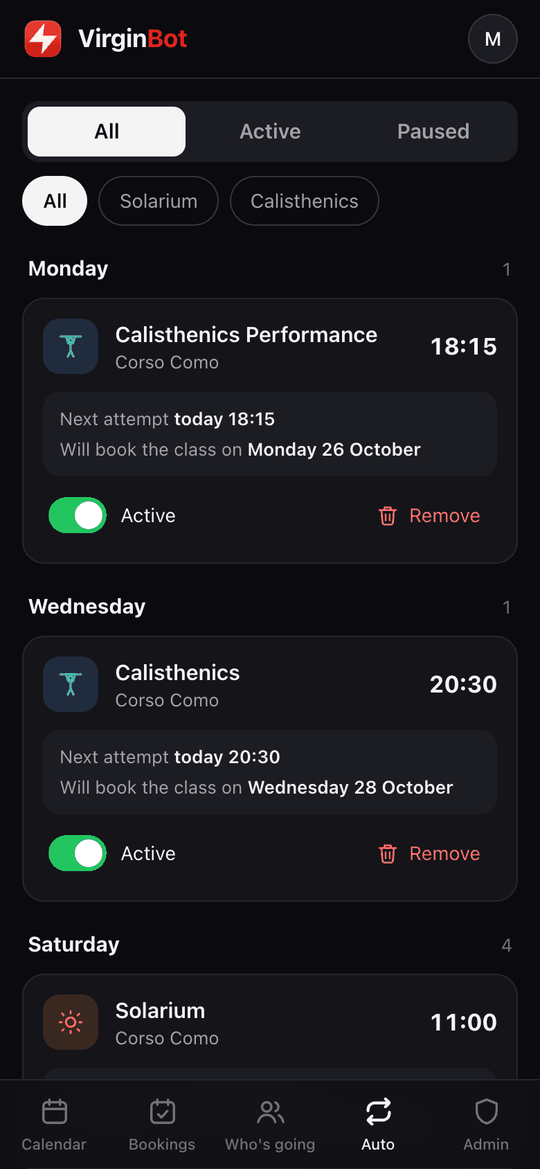
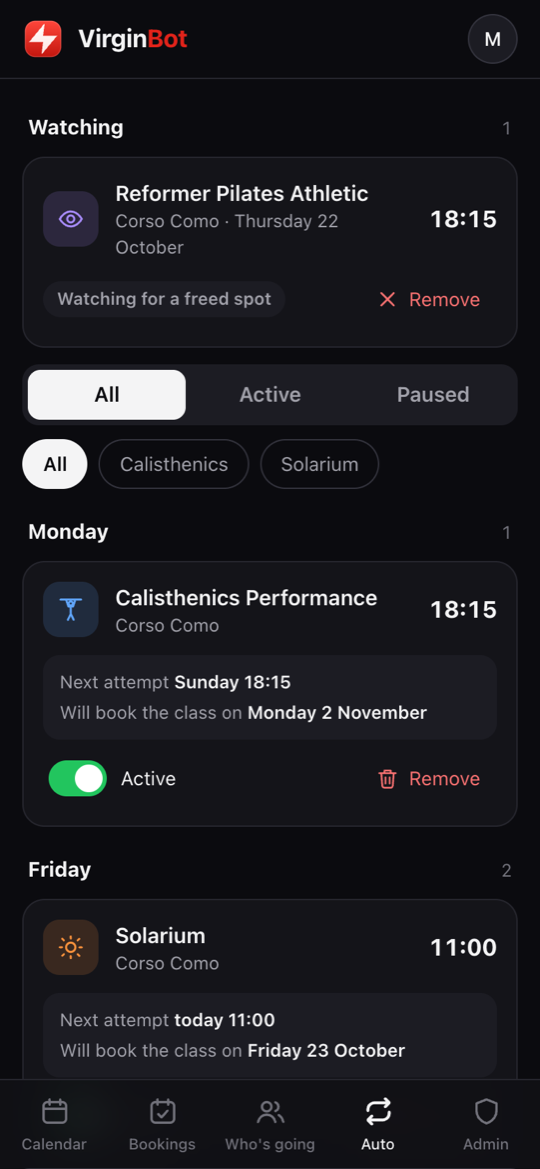
docs: describe the new features and refresh the screenshots

diff --git a/README.md b/README.md
@@ -23,33 +23,42 @@ VirginBot fixes that. You mark the weekly classes you care about, the bot wakes 
 
 ## Screenshots
 
-| Calendar | Filters | Automations |
-|:---:|:---:|:---:|
-| <img src="docs/screenshots/calendar.png" width="260" alt="Calendar"> | <img src="docs/screenshots/filters.png" width="260" alt="Filter sheet"> | <img src="docs/screenshots/automations.png" width="260" alt="Automations"> |
-| Live classes for the next 10 days, one tap to book or automate. | Filter by class, Pilates variant and club. | Weekly rules with the next attempt and the class it will book. |
+| Calendar | Filters | Automations | Your activity |
+|:---:|:---:|:---:|:---:|
+| <img src="docs/screenshots/calendar.png" width="200" alt="Calendar"> | <img src="docs/screenshots/filters.png" width="200" alt="Filter sheet"> | <img src="docs/screenshots/automations.png" width="200" alt="Automations and watches"> | <img src="docs/screenshots/stats.png" width="200" alt="Bookings and stats"> |
+| Live classes with spots left, one tap to book, automate or watch. | Filter by class, Pilates variant, club and instructor. | Watched classes and weekly rules with their next attempt. | Bookings with their cancel deadline, and your stats. |
 
 ## Features
 
 **Calendar**
-- Live classes for the next 10 days across the configured clubs (Milano Corso Como, Milano Cavour, Palermo), with real availability: bookable, full or not yet open.
-- A date strip to jump to a day, plus a filter sheet: class (Calisthenics, Lift, Pilates, Solarium, Full Body, TRX, Cycle), Pilates variant (Reformer Align, Athletic, Tower…) and club.
-- Book and cancel in one tap. *My bookings* always matches the official app, because both read the same backend.
-- **Waitlists:** on a full class, join its waitlist in one tap ("Full · 3 waiting"). *My bookings* shows your position and lets you leave it, and you get a push notification the moment you're moved into the class.
+- Live classes for the next 10 days across the configured clubs (Milano Corso Como, Milano Cavour, Palermo), with real availability: spots left, full ("Full · 3 waiting"), or when booking opens for *you* ("Opens Mon 18:15").
+- A date strip to jump to a day, plus a filter sheet: class, Pilates variant, club (your home club by default) and instructor, with a searchable list where you star your favourite instructors.
+- Book and cancel in one tap. Every booking shows until when it can still be cancelled (Virgin allows it up to 2 h before the class).
+- **Waitlists:** join a full class's waitlist in one tap, see your position, and get a push notification the moment you're moved into the class.
+- **Watch** a full class: VirginBot checks it every few minutes and books it as soon as a spot frees up, until 3 h before the class so you can still cancel it.
 
 **Automations**
-- Tap **Auto** on a class and VirginBot books that class **every week**.
-- It tries at the class time on each day from the moment the window opens (8 days before; 2 for the Solarium) until 24 h before. Each attempt is a short burst of up to 9 tries over about a minute, because Virgin sometimes opens the slot a few seconds late.
-- Cancelling one booking keeps the automation and only skips that date. You get a notice saying so, and booking that date again by hand clears the skip.
-- Pause or remove any rule. Each rule shows when the next attempt is and which class it will book.
+- Tap **Auto** on a class and choose **every week** or **just this once**.
+- It tries at the class time on each day from the moment your booking window opens (8 days before for priority members, 2 for everyone else and for the Solarium) until 24 h before. Each attempt is a short burst of up to 9 tries over about a minute, because Virgin sometimes opens the slot a few seconds late.
+- An automation that would overlap another one of yours is refused, saying which one it clashes with, and the bot never books a class that overlaps one you already have.
+- If a class is still full 24 h before, it can just tell you, put you on its waitlist, or keep watching it for you (your choice).
+- Cancelling one booking keeps the automation and only skips that date. Pause or remove any rule; each one shows its next attempt and the class it will book.
+
+**Bookings and stats**
+- **"Did you go?"** after each class, with one tap. Virgin doesn't expose attendance, so this is what makes the stats real.
+- **Your activity:** classes this month, total, how many VirginBot booked, week streak, classes per month, split by type, and your usual class.
+- A warning when you've skipped classes without cancelling: three in 30 days can get your bookings blocked for 15 days.
+- Suggestions to automate the weekly classes you keep going to.
 
 **Everything else**
-- **Who's going:** see which other users have booked the same class, so you can go together.
-- **Push notifications:** install the app on your phone's home screen, turn notifications on in the account sheet, and you get an instant "Booked ✓" or "Couldn't book" on the lock screen. Tapping it opens the right tab. Works on iPhone (iOS 16.4+, from the home-screen app) and Android.
-- **Installable app:** add it to the home screen for a full-screen app with its own icon that opens instantly.
+- **Push notifications:** booked, couldn't book, a spot freed up, you're in from the waitlist, a reminder before each class (4 h by default) with the time you can cancel until, a friend booking one of your usual classes, and your Virgin password stopping working. Works on iPhone (iOS 16.4+, from the home-screen app) and Android.
+- **Who's going:** see who else booked a class, and book, automate or watch it from there.
+- **Phone calendar:** a private `.ics` subscription link with your bookings.
+- **Installable app:** add it to the home screen for a full-screen app with its own icon. You stay signed in, and the browser offers to save your password.
 - **Multi-user:** an email allowlist, Virgin passwords encrypted at rest, and per-user sessions.
-- **Admin view:** see, pause and remove every user's automations, and see everyone's upcoming bookings.
-- **Three languages:** the web app and notifications are in Italian, Spanish and English, detected from the browser and changeable at any time.
-- **Mobile first:** bottom navigation, bottom sheets, large touch targets and safe-area aware layouts; on desktop it becomes a centred layout with a floating nav bar.
+- **Admin view:** every user's automations and bookings, the engine's health and its latest booking attempts with their outcome.
+- **Three languages:** the web app and notifications are in Italian, Spanish and English.
+- **Mobile first:** bottom navigation, bottom sheets you can swipe down, large touch targets and safe-area aware layouts.
 
 ## How the engine works
 
@@ -62,7 +71,8 @@ class on Mon 18:15, window opens 8 days before
  (T-8: opens)   try            try                 try          try (last) │  class
 ```
 
-- At each trigger it fetches **only that class's club**, finds the session and books it. For the Solarium it tries every bed until one accepts.
+- At each trigger it fetches **only that class's club**, finds the session and books it. Triggers due at the same time run in parallel, so one user's attempt never delays another's.
+- Its state (booked, attempts, notices sent) is stored, so a restart or a deploy doesn't repeat anything.
 - If the booking API errors but the booking actually went through, a final check confirms it before reporting a failure, so you never get a false failure notice or a double booking.
 - After a success it stops for that week; the rule stays active for the next one. If the spot goes in the split second between checking and booking, Virgin puts you on the waitlist instead: the engine stops there and tells you your position.
 
@@ -112,6 +122,8 @@ All settings come from environment variables. The `.env` file is loaded at start
 | `ADDR` | | Listen address. Default `:8080`. |
 | `VIRGINBOT_DB` | | SQLite file. Default `virginbot.db`. |
 | `VIRGINBOT_ATTEMPTS`, `VIRGINBOT_GAP_SEC`, `VIRGINBOT_LEAD_SEC` | | Tune each trigger's burst: attempts (9), seconds between them (8), delay before the first (0). |
+| `VIRGINBOT_CANCEL_CUTOFF_MIN` | | How long before a class Virgin stops accepting cancellations. Default 120. |
+| `VIRGINBOT_WATCH_CUTOFF_MIN` | | When watching a full class stops. Default: the cancel cutoff + 60. |
 | `VIRGINBOT_DEBUG` | | `1` logs every engine evaluation. |
 | `VIRGINBOT_NO_ENGINE` | | `1` disables the engine (local UI work). |
 
@@ -141,7 +153,9 @@ Clubs are identified by vapi's numeric `clubId`. `GET /clubs`, with a signed-in 
 
 - Virgin passwords are encrypted at rest with AES-256-GCM. `APP_SECRET` is mandatory; there is no insecure default.
 - Sign-in is rate-limited per IP and can be restricted with an email allowlist.
-- Session cookies are `HttpOnly`, `Secure` over HTTPS and `SameSite=Lax`, with a 30-day lifetime.
+- Session cookies are `HttpOnly`, `Secure` over HTTPS and `SameSite=Lax`, valid for 30 days since you last opened the app.
+- The login form refuses posts from other sites (login CSRF).
+- The calendar feed is authenticated only by a long random secret in its URL, which you can rotate from the app.
 - `VA_API_KEY` is the app's public static key, but it still lives in secrets, not in the repo. If Virgin rotates it, the admin gets a push notification.
 - `.env`, the database and traffic captures are git-ignored. No secrets are committed.
 
@@ -153,9 +167,9 @@ Pure Go with a single dependency tree and no CGO: SQLite via `modernc.org/sqlite
 |---|---|
 | `vapi/` | Client for Virgin's mobile API: login, classes, bookings, book, cancel. |
 | `calendar/` | The `Class` model and the club id ↔ name mapping. |
-| `automation/` | Rule store, skipped dates, and the precise-timing engine. |
+| `automation/` | Rule store, skipped dates, overlaps, and the precise-timing engine with its persisted state, attempt log and watchdog. |
 | `account/` | Users and encrypted credentials. |
-| `server/` | HTTP API, embedded web app, sessions, per-user API clients, bookings sync, admin. |
+| `server/` | HTTP API, embedded web app, sessions, per-user API clients, bookings sync, watches, reminders, history and stats, calendar feed, admin. |
 | `db/` | SQLite schema and idempotent migrations. |
 | `i18n/` | Dates and notification text in it/es/en. |
 | `push/` | Web Push: payload encryption (RFC 8291), VAPID (RFC 8292) and per-device subscriptions. Standard library only. |
